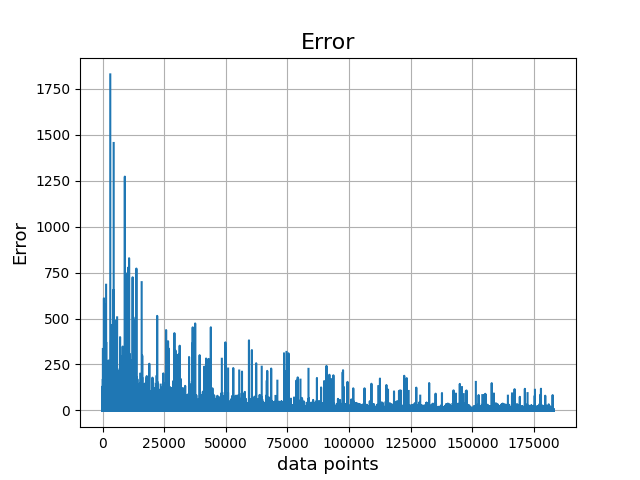
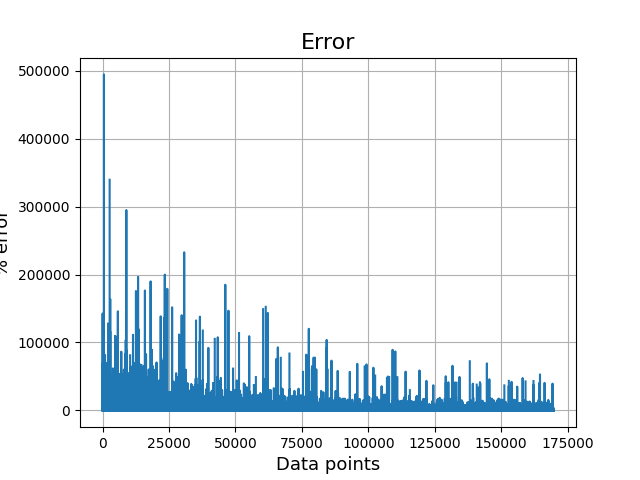
Remove errors='coerce' in read_in_file in tools.py

diff --git a/tools.py b/tools.py
@@ -65,10 +65,10 @@ def read_in_file(filename: str = 'train.csv') -> Union[torch.Tensor, torch.Tenso
         object_columns = data.select_dtypes(include=['object']).columns
         if len(object_columns) > 0:
             print("Non-numeric columns found, attempting to convert:", object_columns)
-            data[object_columns] = data[object_columns].apply(lambda x: pd.to_numeric(x, errors='coerce'))
+            data[object_columns] = data[object_columns].apply(lambda x: pd.to_numeric(x))
 
         # Ensure 'price' is numeric
-        data['price'] = pd.to_numeric(data['price'], errors='coerce')
+        data['price'] = pd.to_numeric(data['price'])
 
         # Separate features and target
         arraydata = data.iloc[:, :-1]  # Assuming the last column is the target
@@ -86,7 +86,7 @@ def read_in_file(filename: str = 'train.csv') -> Union[torch.Tensor, torch.Tenso
         raise("Error reading data:\n" + str(e))
 
 # Plot results
-def plot_results(results: torch.Tensor, filename: str = None):
+def plot_results(results: torch.Tensor, filename: str = None, xlabel: str="Data points", ylabel: str="Error"):
     '''
     Plots the fig and saves it if a filename is given
     
@@ -107,8 +107,8 @@ def plot_results(results: torch.Tensor, filename: str = None):
 
     matplotlib.pyplot.plot(x_values,y_values)
     matplotlib.pyplot.title("Error", fontsize='16')	#title
-    matplotlib.pyplot.xlabel("data points",fontsize='13')	#adds a label in the x axis
-    matplotlib.pyplot.ylabel("Error",fontsize='13')	#adds a label in the y axis
+    matplotlib.pyplot.xlabel(xlabel,fontsize='13')	#adds a label in the x axis
+    matplotlib.pyplot.ylabel(ylabel,fontsize='13')	#adds a label in the y axis
     matplotlib.pyplot.grid()	#shows a grid under the plot
     if filename != None:
         matplotlib.pyplot.savefig(filename + ".png")	#saves the figure in the present directory
@@ -345,14 +345,14 @@ class NeuralNetwork(torch.nn.Module):
             # Reset runnin_loss
             running_loss = 0.0
             # Print status
-            print(100*epoch/epochs,"%\r",end="Training neural network.......")
+            print("{:.1f} %\r".format(100*epoch/epochs),end="Training neural network.......")
             # Loop through each data point
             for n in range(N):
                 # Zero the gradients
                 optimizer.zero_grad()
                 
                 # If data point not clean (has any NaN values), skip that point. Temporary if statement, should be removed from function before project end.
-                if not(torch.isnan(train_data[n]).any()):
+                if not(torch.isnan(train_data[n]).any() or torch.isnan(train_targets[n]).any()):
                     # Forward pass
                     car_price = self(train_data[n,:])
                     # Calculate loss

diff --git a/main.py b/main.py
@@ -19,10 +19,10 @@ print(" \r\nRunning main.py")
 # Settings
 #--------------------------------------------------------
 data_file_name = "train.csv"    # Which file to get the data from
-train_ratio = 0.03               # How high ratio of data should be used for training
-M = 12                          # Number of hidden nodes - 12 dimensional data
-training_cycles = 1             # A.k.a "epochs" or how many times the training goes through each data point in the training data
-learning_rate = 0.01           # The learning rate for the neural network training
+train_ratio = 0.1               # How high ratio of data should be used for training
+M = 15                          # Number of hidden nodes - 12 dimensional data
+training_cycles = 3             # A.k.a "epochs" or how many times the training goes through each data point in the training data
+learning_rate = 0.005           # The learning rate for the neural network training
 test_eval_method = "percent"    # Which evaluation method for the error is used for testing. See tools.test_on_data for options
 #--------------------------------------------------------
 
@@ -84,8 +84,8 @@ test_time = time.time() - test_time
 
 # Plot results
 print("Plotting results..............",end="")
-tools.plot_results(first_testing_loss,filename="Fig1")
-tools.plot_results(testing_loss,filename="Fig2")
+tools.plot_results(100*first_testing_loss,filename="Fig1", ylabel="% error")
+tools.plot_results(100*testing_loss,filename="Fig2", ylabel="% error")
 print(Fore.GREEN + "Complete" + Style.RESET_ALL)
 
 # For when the above code is already working, implement the following:
@@ -97,12 +97,14 @@ print(Fore.GREEN + "Complete" + Style.RESET_ALL)
 
 #-----------------------------------------------
 
-# Calculate runtime
-runtime = time.time() - start_time
-
-# Run finished message and print times
+# Run final messages and print times
 print("\nTraining took {:0.1f} minutes with a train ratio of {:0.1f} %".format(train_time/60, 100*train_ratio))
 print("Initial testing took {:0.1f} seconds".format(initial_test_time))
 print("Testing took {:0.1f} seconds".format(test_time))
-print("Max error: " + str(torch.max(testing_loss)))
+print("Max error: " + str(torch.max(testing_loss).item()))
+
+# Calculate runtime and print succesful run message
+runtime = time.time() - start_time
 print("\nmain.py ran succesfully in {:0.1f} minutes\n".format(runtime/60))
+
+print(testing_loss)
